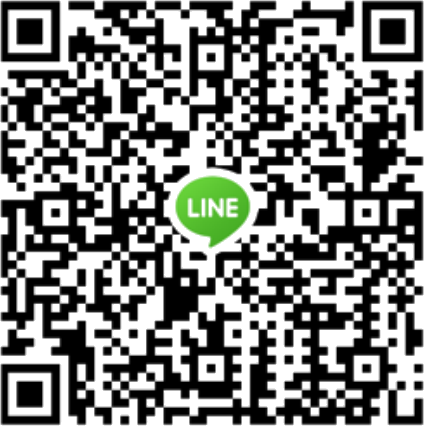
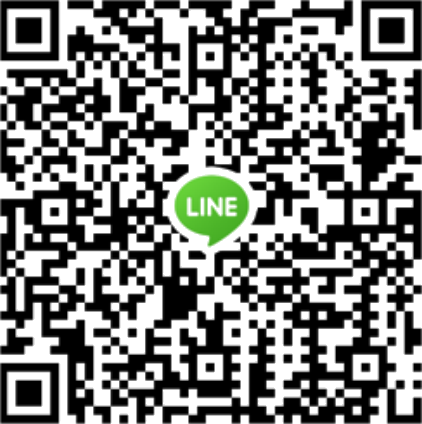
remove bottom footer, fix calendar color, fix line qr code, fix contact color

diff --git a/_includes/sheldon.html b/_includes/sheldon.html
@@ -1,13 +1,15 @@
 <!-- Header -->
     <header>
-        <div class="container">
-            <div class="row">
-                <div class="col-lg-12">
-                    <img class="img-responsive" src="img/profile.png" alt="">
-                    <div class="intro-text">
-                        <span class="name">English Over Coffee</span>
-                        <hr class="star-light">
-                        <span class="skills">With Sheldon J. Johnson</span>
+        <div id="coffee-background">
+            <div class="container">            
+                <div class="row">
+                    <div class="col-lg-12">
+                        <img class="img-responsive" src="img/profile.png" alt="">
+                        <div class="intro-text">
+                            <span class="name">English Over Coffee</span>
+                            <hr class="star-light">
+                            <span class="skills">With Sheldon J. Johnson</span>
+                        </div>
                     </div>
                 </div>
             </div>

diff --git a/_includes/footer.html b/_includes/footer.html
@@ -28,15 +28,6 @@
                 </div>
             </div>
         </div>
-        <div class="footer-below">
-            <div class="container">
-                <div class="row">
-                    <div class="col-lg-12">
-                        Copyright &copy; {{ site.footer.copyright }} 20{{ site.time | date: '%y' }}
-                    </div>
-                </div>
-            </div>
-        </div>
     </footer>
 
     <!-- Scroll to Top Button (Only visible on small and extra-small screen sizes) -->

diff --git a/_includes/contact.html b/_includes/contact.html
@@ -1,10 +1,10 @@
  <!-- Contact Section -->
-<section id="contact">
+<section class="success" id="contact">
     <div class="container">
         <div class="row">
             <div class="col-lg-12 text-center">
                 <h2>Contact Me</h2>
-                <hr class="star-primary">
+                <hr class="star-light">
             </div>
         </div>
         <div class="row">

diff --git a/_includes/css/main.css b/_includes/css/main.css
@@ -201,6 +201,11 @@ section.success {
     background: #{{ site.color.primary }};
 }
 
+section.success a {
+    color: white;
+}
+
+
 @media(max-width:767px) {
     section {
         padding: 75px 0;

diff --git a/fullcalendar-2.2.6/fullcalendar.css b/fullcalendar-2.2.6/fullcalendar.css
@@ -27,6 +27,7 @@ body .fc { /* extra precedence to overcome jqui */
 
 .fc thead {
 	background-color: #363942;
+	color: white;
 }
 
 .fc td {
